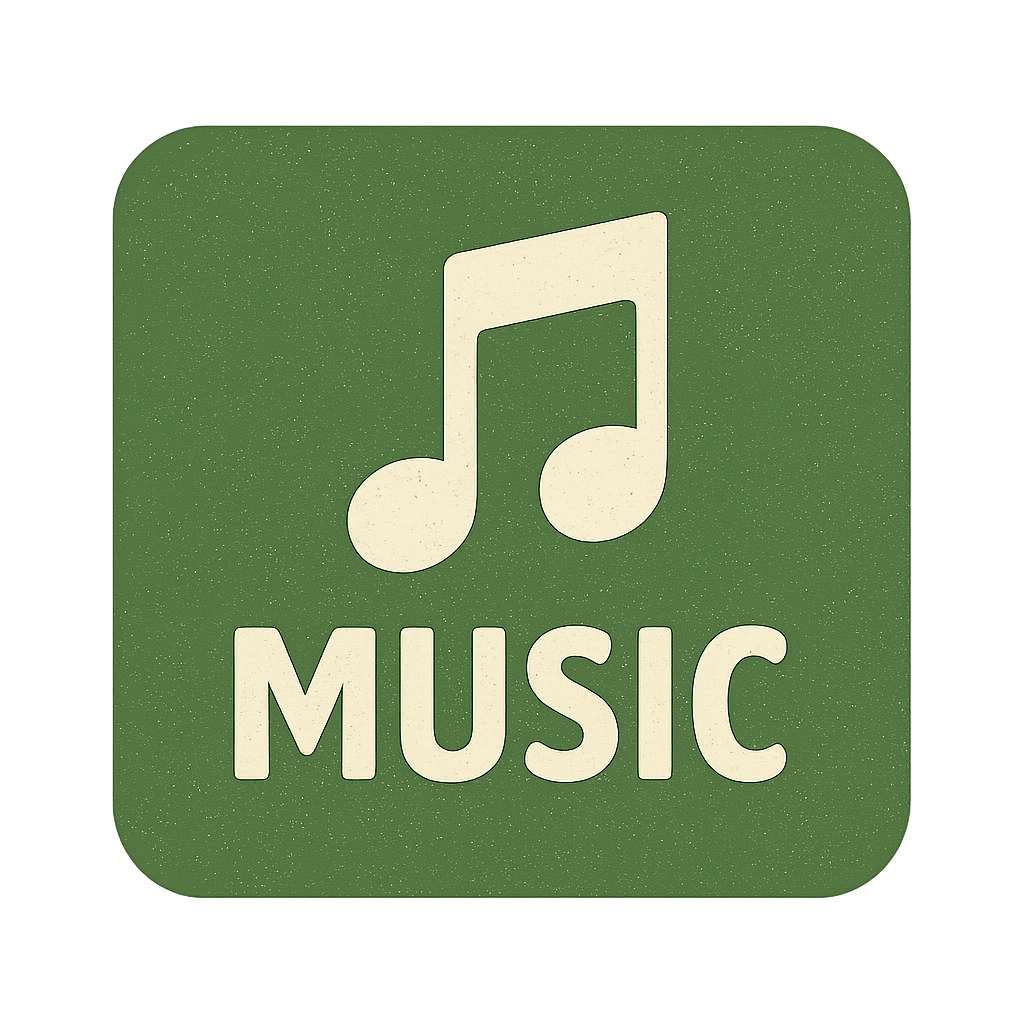
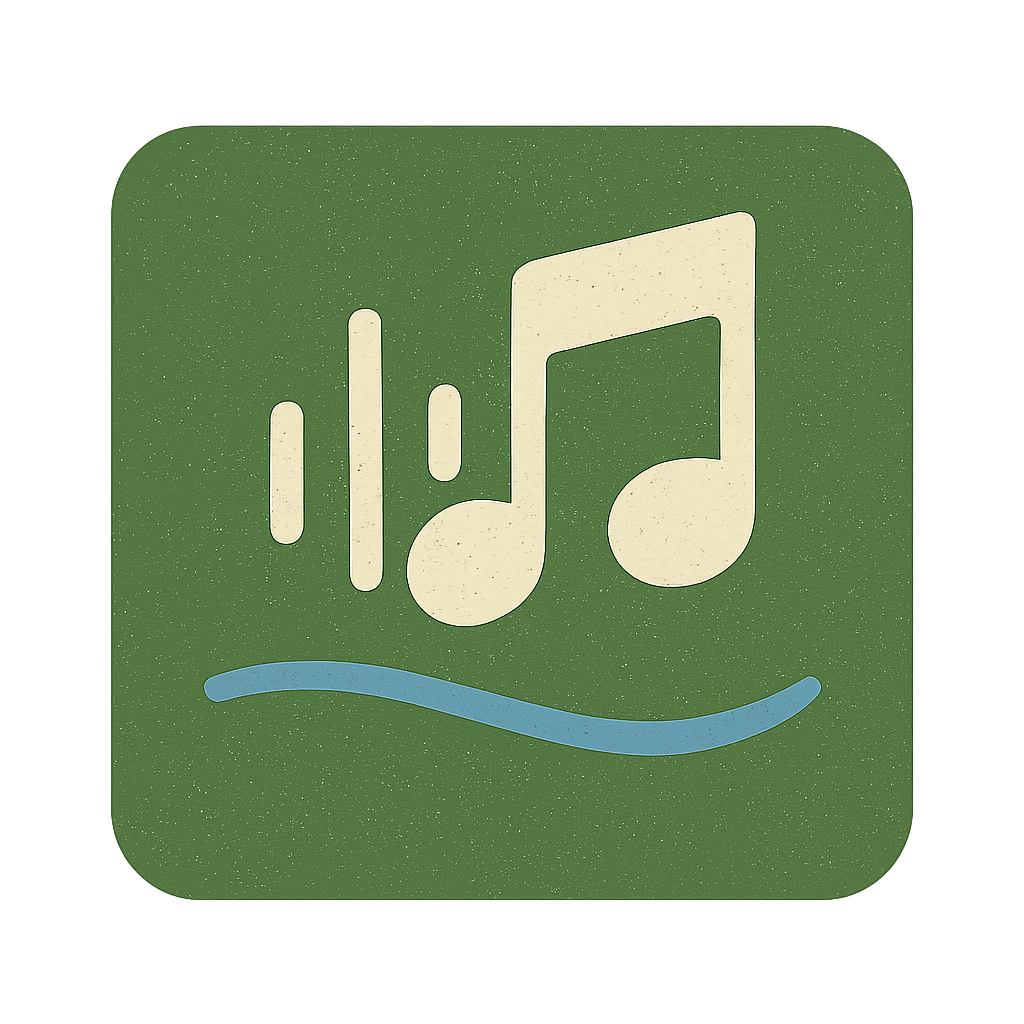
pngstool

diff --git a/index.html b/index.html
@@ -10,14 +10,14 @@
 <body>
   <!-- Toolbar -->
   <div id="toolbar">
-    <button onclick="toggleMediaToolbar()" title="Media Toolbar">🎛</button>
-    <button onclick="captureCanvasOnly()" title="Snapshot">📷</button>
-    <button onclick="rollDice()" oncontextmenu="showDiceSlider(); return false;" title="Random (Right-click for slider)">🎲</button>
+    <button onclick="toggleMediaToolbar()" title="Media Toolbar" class="toolbar-btn" data-icon="media">🎛</button>
+    <button onclick="captureCanvasOnly()" title="Snapshot" class="toolbar-btn" data-icon="snapshot">📷</button>
+    <button onclick="rollDice()" oncontextmenu="showDiceSlider(); return false;" title="Random (Right-click for slider)" class="toolbar-btn" data-icon="dice">🎲</button>
     <span id="diceResult" style="color: gold; margin: 0 15px; font-weight: bold;"></span>
-    <button onclick="toggleMusicPanel()" title="Music Panel">🎶</button>
-    <button onclick="location.reload()" title="Reset">Ⓡ</button>
-    <button onclick="rotateBackground()" style="margin-left:10px;" title="Rotate Background">🔃</button>
-    <button onclick="cycleBackground()" style="margin-left:10px;" title="Change Background">🔄</button>
+    <button onclick="toggleMusicPanel()" title="Music Panel" class="toolbar-btn" data-icon="music">🎶</button>
+    <button onclick="location.reload()" title="Reset" class="toolbar-btn" data-icon="reset">Ⓡ</button>
+    <button onclick="rotateBackground()" style="margin-left:10px;" title="Rotate Background" class="toolbar-btn" data-icon="rotate">🔃</button>
+    <button onclick="cycleBackground()" style="margin-left:10px;" title="Change Background" class="toolbar-btn" data-icon="cycle">🔄</button>
     
     <div>
       <strong style="font-size: 0.5em;">🤔💭ME💬v4😎</strong>
@@ -39,16 +39,16 @@
       </select>
       <label style="margin-left: 1px;" title="Motion (Right-click to pause/unpause)"> 
         ⬅
-        <button onclick="togglePauseButton()" style="margin: 0 5px; padding: 2px 6px; font-size: 12px;" title="Pause/Unpause">⏯</button>
+        <button onclick="togglePauseButton()" style="margin: 0 5px; padding: 2px 6px; font-size: 12px;" title="Pause/Unpause" class="toolbar-btn" data-icon="pause">⏯</button>
         <input max="3" min="0.0" onchange="const slider = this; if(parseFloat(slider.value) !== 0) { previousSpeed = parseFloat(slider.value); slider.classList.remove('paused'); } else { slider.classList.add('paused'); } speedMultiplier = parseFloat(slider.value)" oncontextmenu="toggleSpeed(); return false;" step="0.1" type="range" value="1"/>
       </label>
     </div>
     
-    <button onclick="saveIdeas()" title="Save .json File">💾Save.json</button>
+    <button onclick="saveIdeas()" title="Save .json File" class="toolbar-btn" data-icon="save">💾Save.json</button>
     <input accept=".json" id="fileLoader" style="display:none" type="file"/>
-    <button onclick="document.getElementById('fileLoader').click()" title="Load .json File">🆙 Load.json</button>
-    <button onclick="deleteAllIdeas()" style="margin-left:0px;" title="Blank Canvas">🚮Clear💭Ideas🗑</button>
-    <button onclick="toggleVideoPlayer()" style="margin-left:10px;" title="Toggle Video Player">📹</button>
+    <button onclick="document.getElementById('fileLoader').click()" title="Load .json File" class="toolbar-btn" data-icon="load">🆙 Load.json</button>
+    <button onclick="deleteAllIdeas()" style="margin-left:0px;" title="Blank Canvas" class="toolbar-btn" data-icon="clear">🚮Clear💭Ideas🗑</button>
+    <button onclick="toggleVideoPlayer()" style="margin-left:10px;" title="Toggle Video Player" class="toolbar-btn" data-icon="video">📹</button>
   </div>
 
   <!-- Media Toolbar -->
@@ -61,12 +61,12 @@
     </label>
     <label>🎥 YouTube:
       <input id="youtubeLink" placeholder="Paste Video URL" type="text"/>
-      <button onclick="loadYouTubeVideo()">Load</button>
+      <button onclick="loadYouTubeVideo()" class="toolbar-btn" data-icon="youtube">Load</button>
     </label>
     <div class="media-separator"></div>
-    <button onclick="recordState('start')" class="record-btn start-btn" title="Mark In Point">🎬 In</button>
-    <button onclick="recordState('end')" class="record-btn end-btn" title="Mark Out Point">🏁 Out</button>
-    <button onclick="startPlayback()" class="play-btn" title="Play In to Out">▶ Play</button>
+    <button onclick="recordState('start')" class="record-btn start-btn toolbar-btn" data-icon="record-in" title="Mark In Point">🎬 In</button>
+    <button onclick="recordState('end')" class="record-btn end-btn toolbar-btn" data-icon="record-out" title="Mark Out Point">🏁 Out</button>
+    <button onclick="startPlayback()" class="play-btn toolbar-btn" data-icon="play" title="Play In to Out">▶ Play</button>
     <div class="timeline-control">
       <span>Timeline:</span>
       <input id="mediaPlaybackSlider" max="1" min="0" step="0.01" type="range" value="0"/>
@@ -81,7 +81,7 @@
         <option value="30000">30s</option>
       </select>
     </div>
-    <button onclick="captureCanvas()" class="snapshot-btn" title="Snapshot">📷 Snapshot</button>
+    <button onclick="captureCanvas()" class="snapshot-btn toolbar-btn" data-icon="snapshot-media" title="Snapshot">📷 Snapshot</button>
   </div>
 
   <!-- Video Elements -->
@@ -372,8 +372,9 @@
       window.setupMediaEventListeners = setupMediaEventListeners;
       window.closePlaylist = closePlaylist;
       window.minimizePlaylist = minimizePlaylist;
-      window.debugVideoControls = debugVideoControls;
-      window.testPngAccess = testPngAccess;
+              window.debugVideoControls = debugVideoControls;
+        window.testPngAccess = testPngAccess;
+        window.loadToolbarButtonImages = loadToolbarButtonImages;
       
       // Test function
       window.testFunction = function() {

diff --git a/media.js b/media.js
@@ -513,6 +513,7 @@ function initVideoPlayer() {
   setTimeout(() => {
     debugVideoControls();
     testPngAccess();
+    loadToolbarButtonImages();
   }, 1000);
   
   // Add click handler for minimized playlist
@@ -1255,6 +1256,65 @@ function testPngAccess() {
       console.log(`❌ PNG file not accessible: ${fileName}`);
     };
     img.src = `images/${fileName}`;
+  });
+}
+
+function loadToolbarButtonImages() {
+  console.log('🎛 Loading toolbar button images...');
+  
+  const imageNames = ['media', 'snapshot', 'dice', 'music', 'reset', 'rotate', 'cycle', 'pause', 'save', 'load', 'clear', 'video', 'youtube', 'record-in', 'record-out', 'play', 'snapshot-media'];
+  const imageFileMap = {
+    'media': 'media.png',
+    'snapshot': 'snapshot.png',
+    'dice': 'dice.png',
+    'music': 'music.png',
+    'reset': 'reset.png',
+    'rotate': 'rotate.png',
+    'cycle': 'cycle.png',
+    'pause': 'pause.png',
+    'save': 'save.png',
+    'load': 'load.png',
+    'clear': 'clear.png',
+    'video': 'video.png',
+    'youtube': 'youtube.png',
+    'record-in': 'record-in.png',
+    'record-out': 'record-out.png',
+    'play': 'play.png',
+    'snapshot-media': 'snapshot.png'
+  };
+  
+  const buttons = document.querySelectorAll('.toolbar-btn');
+  let loadedCount = 0;
+  let totalButtons = buttons.length;
+  
+  buttons.forEach(button => {
+    const iconName = button.getAttribute('data-icon');
+    const filename = imageFileMap[iconName];
+    
+    if (filename) {
+      const img = new Image();
+      img.onload = () => {
+        button.style.backgroundImage = `url(images/${filename})`;
+        button.style.color = 'transparent';
+        button.style.fontSize = '0';
+        button.classList.add('has-png');
+        loadedCount++;
+        console.log(`✅ Loaded ${filename} for ${iconName} button`);
+        
+        if (loadedCount === totalButtons) {
+          console.log('🎛 All toolbar button images loaded successfully');
+        }
+      };
+      img.onerror = () => {
+        console.log(`❌ Failed to load ${filename} for ${iconName} button`);
+        // Keep the emoji as fallback
+        button.style.color = 'gold';
+        button.style.fontSize = 'inherit';
+      };
+      img.src = `images/${filename}`;
+    } else {
+      console.log(`⚠ No PNG mapping found for ${iconName} button`);
+    }
   });
 }
 

diff --git a/themes.js b/themes.js
@@ -1347,6 +1347,21 @@ const themePresets = {
     "glow": false,
     "transparent": false
   },
+{
+    "title": "",
+    "description": "",
+    "x": 208.87618028868897,
+    "y": 274.4980284523315,
+    "vx": 0,
+    "vy": 0,
+    "color": "hsl(254.0872352592045, 100%, 70%)",
+    "textColor": "white",
+    "radius": 39,
+    "font": "Arial",
+    "image": "images/w9.png",
+    "glow": false,
+    "transparent": false
+  },
   {
     "title": "",
     "description": "",

diff --git a/styles.css b/styles.css
@@ -41,6 +41,21 @@ html, body {
   transform: scale(1.05);
 }
 
+.toolbar-btn {
+  background-image: none;
+  background-size: 24px 24px;
+  background-repeat: no-repeat;
+  background-position: center;
+  color: transparent;
+  font-size: 0;
+  min-width: 40px;
+  min-height: 40px;
+}
+
+.toolbar-btn.has-png {
+  background-image: var(--png-url);
+}
+
 /* ===== CANVAS STYLES ===== */
 #canvas {
   display: block;
